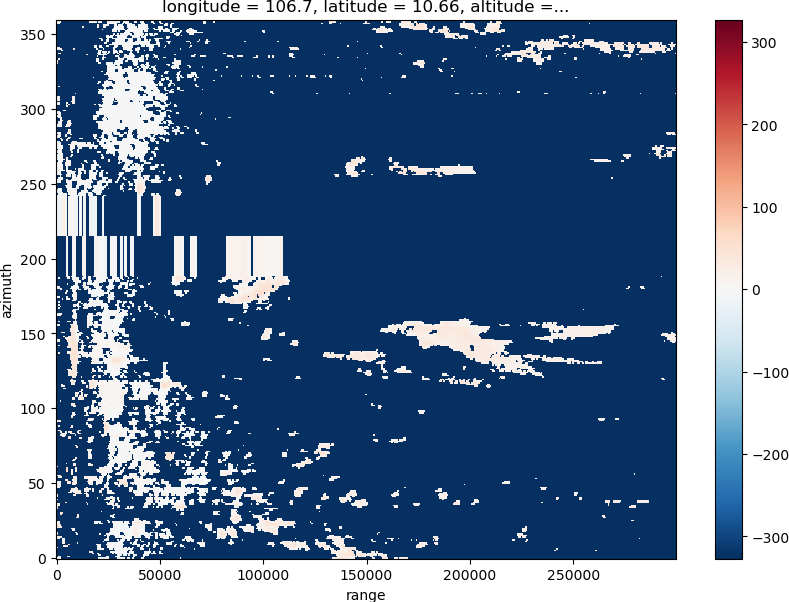
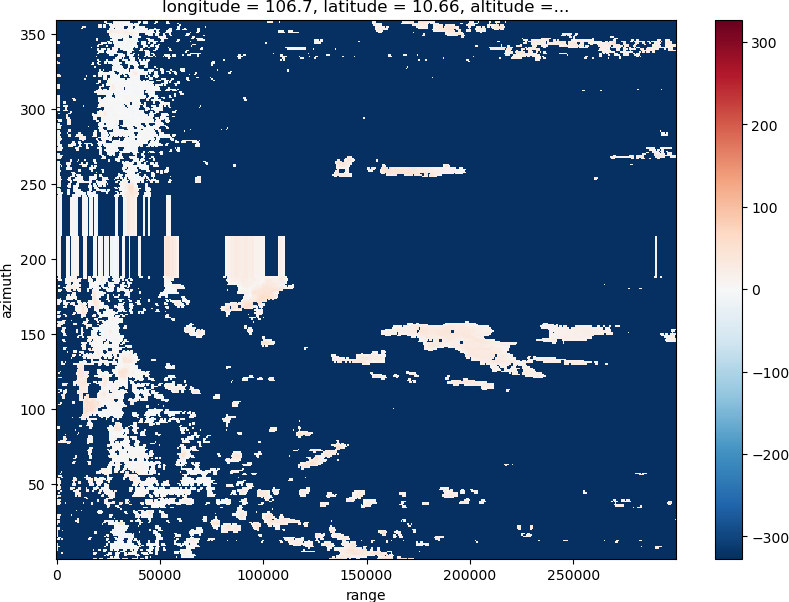
Feature: Rendering 2 GL

diff --git a/src/main.py b/src/main.py
@@ -371,9 +371,6 @@ class MainWindow(QMainWindow):
           self.DataManager.raw_data = self.DataManager.getAllDataFilePaths()
           self.ui.fileBox.setCurrentIndex(0)
 
-
-          
-
     def getRadar(self, index = 0):
         #! get value of radar
         radar = self.ui.radarBox.currentText()
@@ -429,8 +426,13 @@ class MainWindow(QMainWindow):
       f = self.ui.fileBox.currentText()
       if f != "":
         self.glWidget.update(index=index, clutterFilter=self.ui.clutterFilterToggle.isChecked(), isGrid=self.ui.gridCheckBox.isChecked())
-        self.getPlotMode()
         self.glWidget.updateGL()
+
+        if self.glWidget_2:
+          self.glWidget_2.update(index=index)
+          self.glWidget_2.updateGL()
+        self.getPlotMode()
+        
         self.addInfor()
         self.addExtraInfor()
         self.addStormList()
@@ -524,6 +526,7 @@ class MainWindow(QMainWindow):
         self.ui.slider_3d_y.setMaximum(115)
         self.ui.slider_3d_z.setMaximum(115)
 
+        # self.ui.fileBox.currentIndexChanged.connect(self.getFile)
         self.ui.preFile.clicked.connect(self.goPrevFile)
         self.ui.nextFile.clicked.connect(self.goNextFile)
         self.ui.resetView.clicked.connect(self.reset3DView)
@@ -652,12 +655,12 @@ class MainWindow(QMainWindow):
     def goPrevFile(self):
         index = max(0, self.ui.fileBox.currentIndex()-1)
         self.ui.fileBox.setCurrentIndex(index)
-        self.getFile(index=index)
+        # self.getFile(index=index)
 
     def goNextFile(self):
         index = min(self.ui.fileBox.count() - 1,self.ui.fileBox.currentIndex()+1)
         self.ui.fileBox.setCurrentIndex(index)
-        self.getFile(index=index)
+        # self.getFile(index=index)
 
     def updateSliderX(self, val):
         self.glWidget.setRotX(val)
@@ -665,7 +668,6 @@ class MainWindow(QMainWindow):
         tmp_value = min(tmp_value, 360)
         self.ui.x_value.setText(str(int(tmp_value)) + "°")
         self.ui.pro_x.setText(str(int(tmp_value)) + "°")
-
 
     def updateSliderY(self, val):
         self.glWidget.setRotY(val)
@@ -804,9 +806,11 @@ class MainWindow(QMainWindow):
         self.genTrackThread.params = trackInfor
         self.trackThread.start()
         self.ui.track_accept_button.setEnabled(False)
+        
     def initGL2(self):
         sizePolicy = PyQt5.QtWidgets.QSizePolicy(PyQt5.QtWidgets.QSizePolicy.Expanding, PyQt5.QtWidgets.QSizePolicy.Expanding)
-        self.glWidget_2 = GLWidget(self)        
+        self.glWidget_2 = GLWidget(self)    
+        self.glWidget_2.resetRadar(self.DataManager)    
         self.glWidget_2.setSizePolicy(sizePolicy)
         self.ui.scrollArea_5.setWidget(self.glWidget_2)
         
@@ -822,19 +826,26 @@ class MainWindow(QMainWindow):
         self.ui.slider_pro_y_2.setMaximum(115)
         self.ui.slider_pro_z_2.setMaximum(115)
 
+        self.ui.fileBox.currentIndexChanged.connect(self.getFile)
+
 # * slider for second GLwidget here
     def updateSliderX_Pro_2(self, val):
         self.glWidget_2.setRotX(val)
+        self.glWidget_2.updateGL()
         tmp_value = val * np.pi
         tmp_value = min(tmp_value, 360)
         self.ui.pro_x_2.setText(str(int(tmp_value)) + "°")
+
     def updateSliderY_Pro_2(self, val):
-        self.glWidget_2.setRotX(val)
+        self.glWidget_2.setRotY(val)
+        self.glWidget_2.updateGL()
         tmp_value = val * np.pi
         tmp_value = min(tmp_value, 360)
         self.ui.pro_y_2.setText(str(int(tmp_value)) + "°")
+
     def updateSliderZ_Pro_2(self, val):
-        self.glWidget_2.setRotX(val)
+        self.glWidget_2.setRotZ(val)
+        self.glWidget_2.updateGL()
         tmp_value = val * np.pi
         tmp_value = min(tmp_value, 360)
         self.ui.pro_z_2.setText(str(int(tmp_value)) + "°")

diff --git a/src/Radar.py b/src/Radar.py
@@ -488,9 +488,14 @@ class Radar:
       # Create all combinations of indices
       idx_a, idx_b, idx_c = np.meshgrid(np.arange(len(a)), np.arange(len(b)), np.arange(len(c)), indexing='ij')
       combinations = np.array([c[idx_c.ravel()], b[idx_b.ravel()], a[idx_a.ravel()]]).T
+      maxPoint = np.array([np.max(self.data.gate_x['data']), np.max(self.data.gate_y['data']), np.max(self.data.gate_z['data'])])
+      appendPoints = np.array([
+        maxPoint
+      ])
+      combinations = np.concatenate((combinations, appendPoints), axis=0)
       return scaler.fit_transform(
           combinations
-      )
+      )[:-1]
       
   def get_all_vertices_by_threshold(self, threshold = 0):
       indices = np.where(np.logical_and(np.logical_not(self.currentReflectivity.mask), self.currentReflectivity.data >= threshold))
@@ -539,9 +544,9 @@ class Radar:
                 ])
               tracklines[key].append(
                 [
-                  self.gridData.x['data'].data[-1], 
-                  self.gridData.y['data'].data[-1], 
-                  self.gridData.z['data'].data[-1]
+                  np.max(self.data.gate_x['data']), 
+                  np.max(self.data.gate_y['data']), 
+                  np.max(self.data.gate_z['data'])
                 ])
               tracklines[key] = scaler.fit_transform(tracklines[key])
               tracklines[key] = tracklines[key][:-2]
@@ -623,7 +628,7 @@ class Radar:
       concatenated_array,
       np.array([
         [self.gridData.x['data'].data[0], self.gridData.y['data'].data[0], self.gridData.z['data'].data[0]],
-        [self.gridData.x['data'].data[-1], self.gridData.y['data'].data[-1], self.gridData.z['data'].data[-1]]
+        [np.max(self.data.gate_x['data']), np.max(self.data.gate_y['data']), np.max(self.data.gate_z['data'])]
       ])
     ), axis = 0)
 

diff --git a/src/Titan/StormTracking/grid_utils.py b/src/Titan/StormTracking/grid_utils.py
@@ -46,7 +46,7 @@ def get_filtered_frame(grid, min_size, thresh):
     # masked = grid
     # masked.data[masked.data == masked.fill_value] = 0
     grid[grid < thresh] = 0
-    labeled_echo = ndimage.label(grid)[0]
+    labeled_echo = ndimage.label(grid, structure = np.ones((3, 3, 3)))[0]
     frame = clear_small_echoes(labeled_echo, min_size)
     return frame
 
@@ -60,7 +60,7 @@ def clear_small_echoes(label_image, min_size):
 
     for obj in small_objects:
         label_image[label_image == obj] = 0
-    label_image = ndimage.label(label_image)
+    label_image = ndimage.label(label_image, structure = np.ones((3, 3, 3)))
     return label_image[0]
 
 
